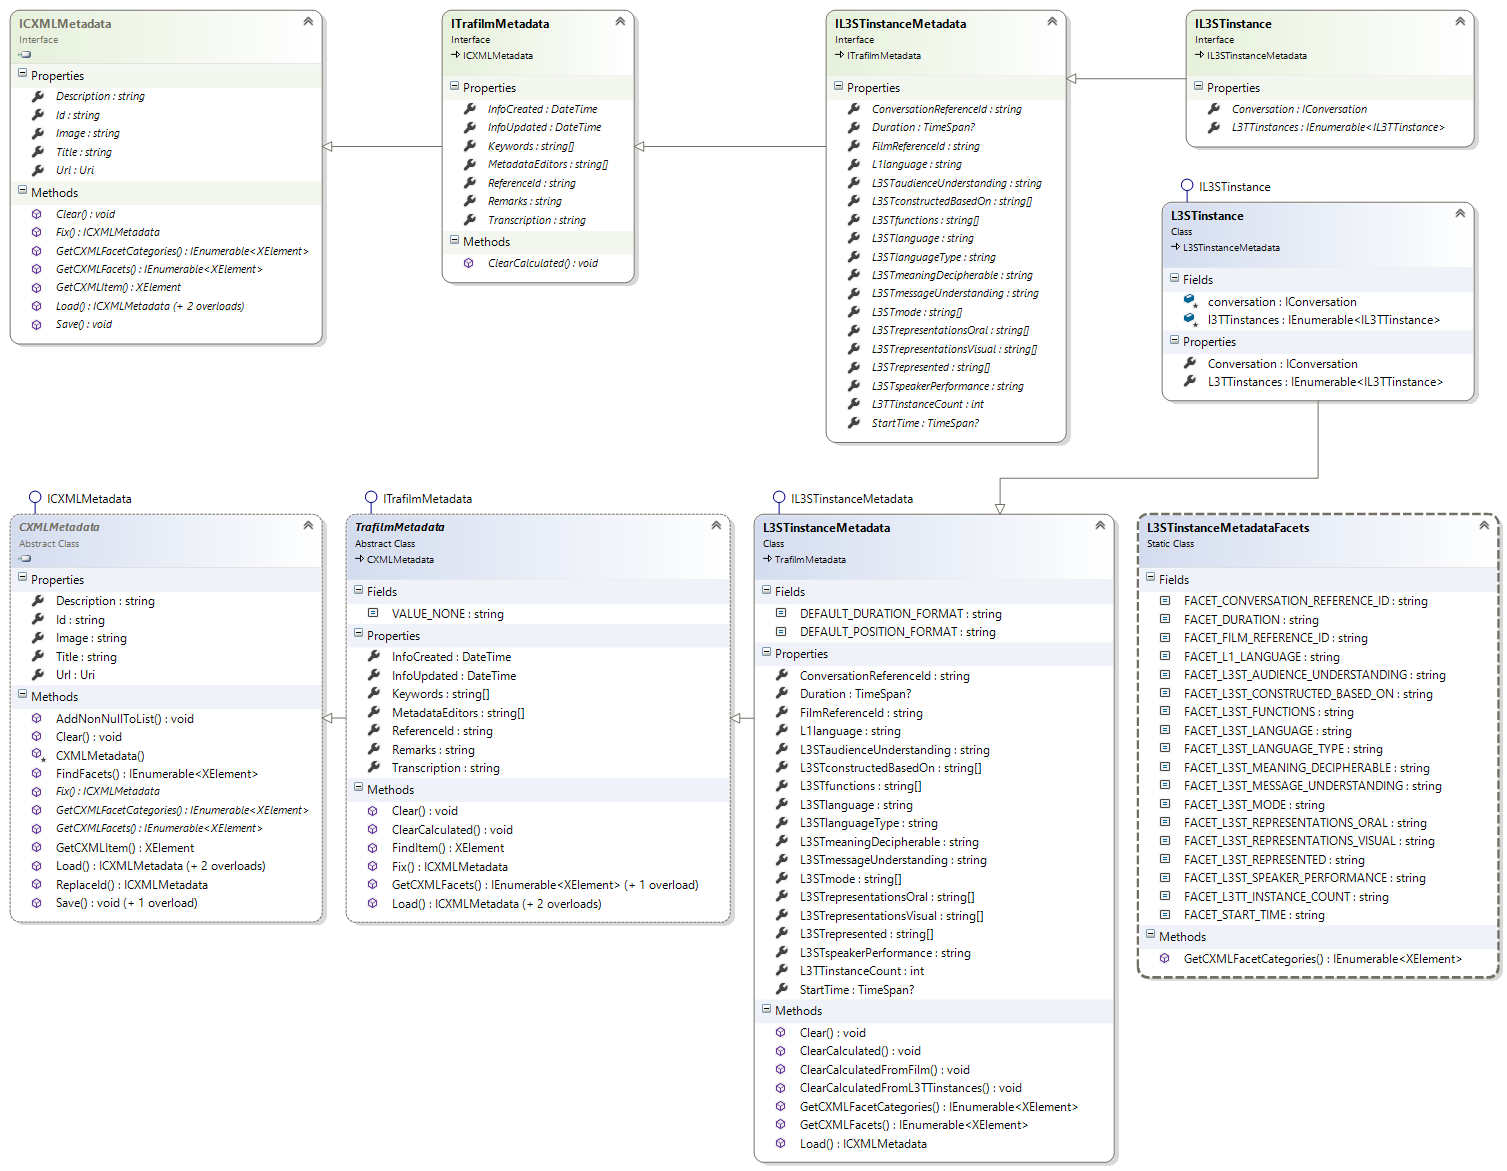
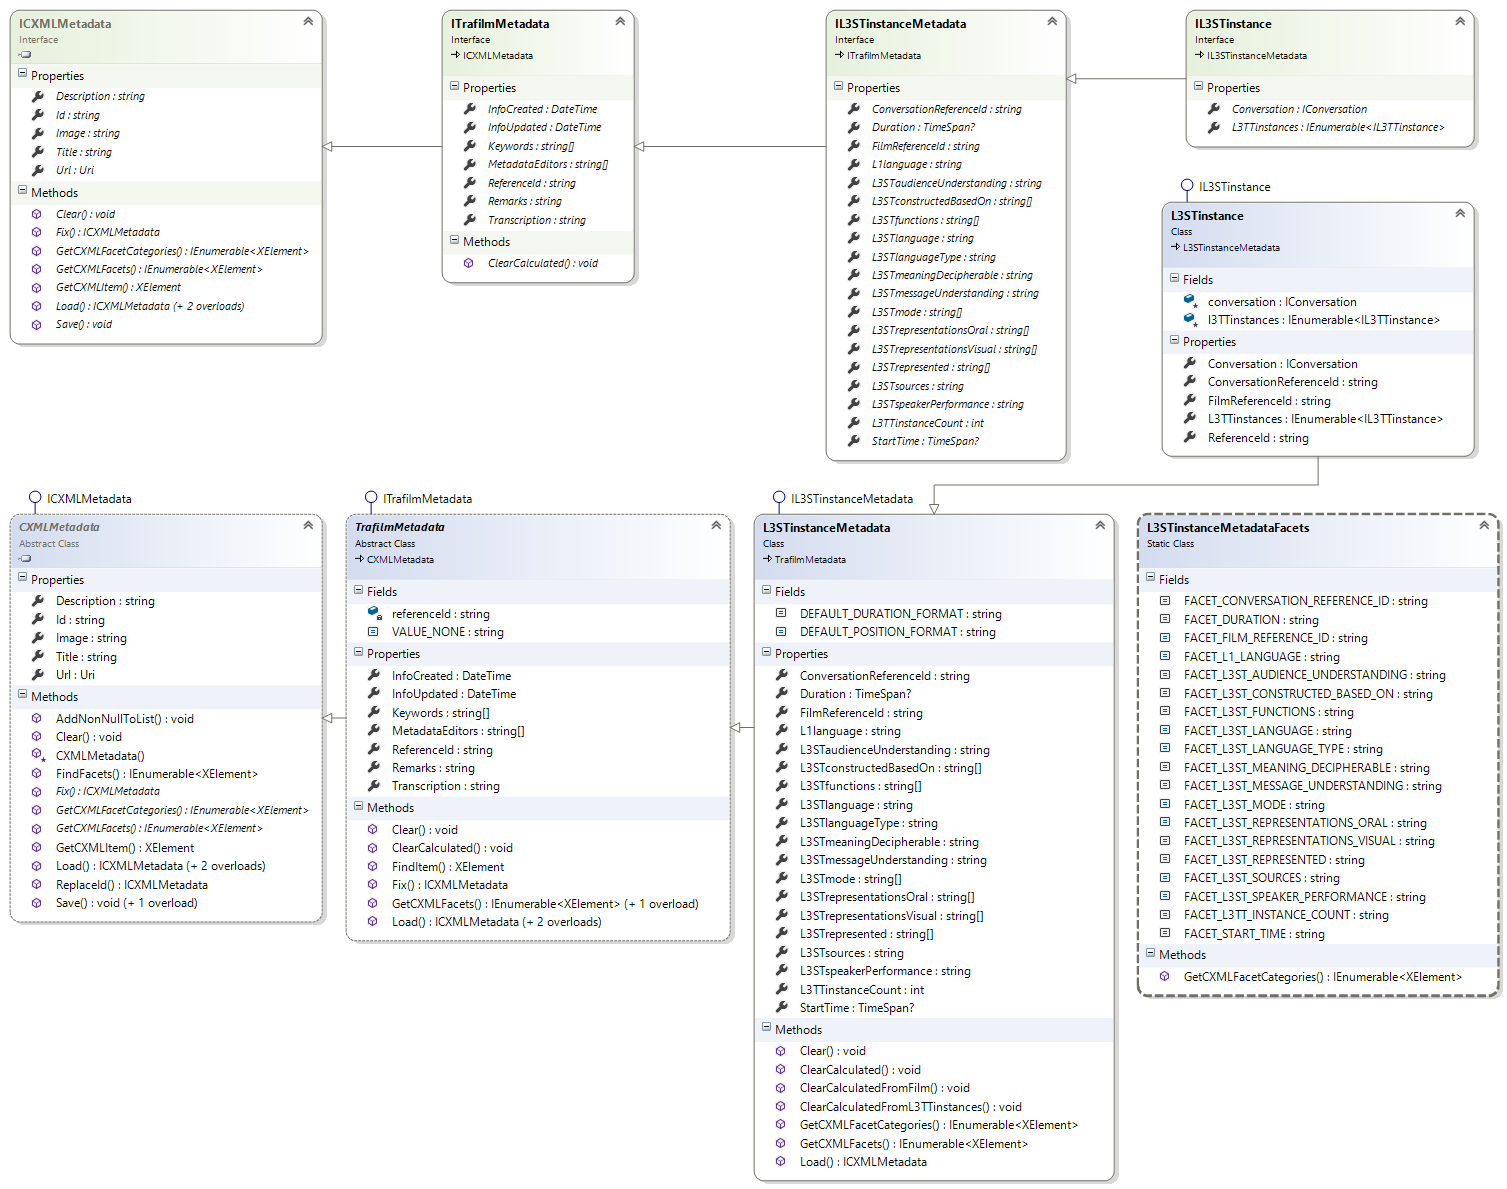
- Removed L1languagePresent, L2languagePresent, SpeakingCharactersCount, L3STspeakingCharactersCount from ConversationMetadata and introduced LanguageSources (single value) instead - Added L3STsources (single value) to L3STinstanceMetadata - Added L3TTsources (single value) and L3STsourcesChange (ca

diff --git a/Metadata/Conversation/ConversationMetadata.cs b/Metadata/Conversation/ConversationMetadata.cs
@@ -1,6 +1,6 @@
 //Project: Trafilm.Metadata (https://github.com/Zoomicon/Trafilm.Metadata)
 //Filename: ConversationMetadata.cs
-//Version: 20160609
+//Version: 20160614
 
 using Metadata.CXML;
 using Trafilm.Metadata.Models;
@@ -30,11 +30,7 @@ namespace Trafilm.Metadata
     public TimeSpan? StartTime { get; set; }
     public TimeSpan? Duration { get; set; }
 
-    public string L1languagePresent { get; set; }
-    public string L2languagePresent { get; set; }
-
-    public string SpeakingCharactersCount { get; set; } //e.g. 1, 2, 3, more than 3
-    public string L3STspeakingCharactersCount { get; set; } //e.g. 1, 2, 3, more than 3
+    public string LanguageSources { get; set; }
 
     //Calculatable from L3STinstances//
 
@@ -59,11 +55,7 @@ namespace Trafilm.Metadata
       StartTime = null;
       Duration = null;
 
-      L1languagePresent = "";
-      L2languagePresent = "";
-
-      SpeakingCharactersCount = ""; //can take values like 1, 2, 3, more than 3
-      L3STspeakingCharactersCount = ""; //can take values like 1, 2, 3, more than 3
+      LanguageSources = "";
 
       //note: don't call ClearCalculated here, has been called by base.Clear() already
     }
@@ -92,19 +84,15 @@ namespace Trafilm.Metadata
       StartTime = facets.CXMLFacetStringValue(ConversationMetadataFacets.FACET_START_TIME).ToNullableTimeSpan(DEFAULT_POSITION_FORMAT);
       Duration = facets.CXMLFacetStringValue(ConversationMetadataFacets.FACET_DURATION).ToNullableTimeSpan(DEFAULT_DURATION_FORMAT);
 
-      L1languagePresent = facets.CXMLFacetStringValue(ConversationMetadataFacets.FACET_L1_LANGUAGE_PRESENT);
-      L2languagePresent = facets.CXMLFacetStringValue(ConversationMetadataFacets.FACET_L2_LANGUAGE_PRESENT);
+      LanguageSources = facets.CXMLFacetStringValue(ConversationMetadataFacets.FACET_LANGUAGE_SOURCES);
 
-      SpeakingCharactersCount = facets.CXMLFacetStringValue(ConversationMetadataFacets.FACET_SPEAKING_CHARACTERS_COUNT); //e.g. 1, 2, 3, more than 3
-      L3STspeakingCharactersCount = facets.CXMLFacetStringValue(ConversationMetadataFacets.FACET_L3ST_SPEAKING_CHARACTERS_COUNT); //e.g. 1, 2, 3, more than 3
+      //Calculatable from L3STinstances//
 
       L3STlanguagesCount = int.Parse(facets.CXMLFacetStringValue(ConversationMetadataFacets.FACET_L3ST_LANGUAGES_COUNT));
       L3STlanguages = facets.CXMLFacetStringValues(ConversationMetadataFacets.FACET_L3ST_LANGUAGES);
 
       L3STlanguageTypesCount = int.Parse(facets.CXMLFacetStringValue(ConversationMetadataFacets.FACET_L3ST_LANGUAGE_TYPES_COUNT));
       L3STlanguageTypes = facets.CXMLFacetStringValues(ConversationMetadataFacets.FACET_L3ST_LANGUAGE_TYPES);
-
-      //Calculatable from L3STinstances//
 
       L3STinstanceCount = int.Parse(facets.CXMLFacetStringValue(ConversationMetadataFacets.FACET_L3ST_INSTANCE_COUNT));
 
@@ -128,19 +116,15 @@ namespace Trafilm.Metadata
       AddNonNullToList(facets, CXML.MakeStringFacet(ConversationMetadataFacets.FACET_START_TIME, StartTime.ToString(DEFAULT_POSITION_FORMAT)));
       AddNonNullToList(facets, CXML.MakeStringFacet(ConversationMetadataFacets.FACET_DURATION, Duration.ToString(DEFAULT_DURATION_FORMAT)));
 
-      AddNonNullToList(facets, CXML.MakeStringFacet(ConversationMetadataFacets.FACET_L1_LANGUAGE_PRESENT, L1languagePresent));
-      AddNonNullToList(facets, CXML.MakeStringFacet(ConversationMetadataFacets.FACET_L2_LANGUAGE_PRESENT, L2languagePresent));
+      AddNonNullToList(facets, CXML.MakeStringFacet(ConversationMetadataFacets.FACET_LANGUAGE_SOURCES, LanguageSources));
 
-      AddNonNullToList(facets, CXML.MakeStringFacet(ConversationMetadataFacets.FACET_SPEAKING_CHARACTERS_COUNT, SpeakingCharactersCount));
-      AddNonNullToList(facets, CXML.MakeStringFacet(ConversationMetadataFacets.FACET_L3ST_SPEAKING_CHARACTERS_COUNT, L3STspeakingCharactersCount));
+      //Calculatable from L3STinstances//
 
       AddNonNullToList(facets, CXML.MakeStringFacet(ConversationMetadataFacets.FACET_L3ST_LANGUAGES_COUNT, L3STlanguagesCount.ToString()));
       AddNonNullToList(facets, CXML.MakeStringFacet(ConversationMetadataFacets.FACET_L3ST_LANGUAGES, L3STlanguages));
 
       AddNonNullToList(facets, CXML.MakeStringFacet(ConversationMetadataFacets.FACET_L3ST_LANGUAGE_TYPES_COUNT, L3STlanguageTypesCount.ToString()));
       AddNonNullToList(facets, CXML.MakeStringFacet(ConversationMetadataFacets.FACET_L3ST_LANGUAGE_TYPES, L3STlanguageTypes));
-
-      //Calculatable from L3STinstances//
 
       AddNonNullToList(facets, CXML.MakeStringFacet(ConversationMetadataFacets.FACET_L3ST_INSTANCE_COUNT, L3STinstanceCount.ToString()));
 

diff --git a/Metadata/L3TTinstance/L3TTinstanceMetadata.cs b/Metadata/L3TTinstance/L3TTinstanceMetadata.cs
@@ -1,6 +1,6 @@
 //Project: Trafilm.Metadata (https://github.com/Zoomicon/Trafilm.Metadata)
 //Filename: L3TTinstanceMetadata.cs
-//Version: 20160609
+//Version: 20160614
 
 using Metadata.CXML;
 using Trafilm.Metadata.Models;
@@ -46,11 +46,14 @@ namespace Trafilm.Metadata
 
     public string[] L3TTfunctions { get; set; }
 
+    public string L3TTsources { get; set; }
+
     //Calculatable from L3STinstance//
 
     public string[] L3STlanguageTypeChange { get; set; }
     public string[] L3STmodeChange { get; set; }
     public string[] L3STfunctionsChange { get; set; }
+    public string[] L3STsourcesChange { get; set; }
 
     #endregion
 
@@ -90,6 +93,8 @@ namespace Trafilm.Metadata
 
       L3TTfunctions = new string[] { };
 
+      L3TTsources = "";
+
       //note: don't call ClearCalculated here, has been called by base.Clear() already
     }
 
@@ -100,6 +105,7 @@ namespace Trafilm.Metadata
       L3STlanguageTypeChange = new string[] { };
       L3STmodeChange = new string[] { };
       L3STfunctionsChange = new string[] { };
+      L3STsourcesChange = new string[] { };
     }
 
     public override ICXMLMetadata Load(XElement item)
@@ -138,11 +144,14 @@ namespace Trafilm.Metadata
 
       L3TTfunctions = facets.CXMLFacetStringValues(L3TTinstanceMetadataFacets.FACET_L3TT_FUNCTIONS);
 
+      L3TTsources = facets.CXMLFacetStringValue(L3TTinstanceMetadataFacets.FACET_L3TT_SOURCES);
+
       //Calculatable from L3STinstance//
 
       L3STlanguageTypeChange = facets.CXMLFacetStringValues(L3TTinstanceMetadataFacets.FACET_L3ST_LANGUAGE_TYPE_CHANGE);
       L3STmodeChange = facets.CXMLFacetStringValues(L3TTinstanceMetadataFacets.FACET_L3ST_MODE_CHANGE); 
       L3STfunctionsChange = facets.CXMLFacetStringValues(L3TTinstanceMetadataFacets.FACET_L3ST_FUNCTIONS_CHANGE);
+      L3STsourcesChange = facets.CXMLFacetStringValues(L3TTinstanceMetadataFacets.FACET_L3ST_SOURCES_CHANGE);
 
       return this;
     }
@@ -189,11 +198,14 @@ namespace Trafilm.Metadata
 
       AddNonNullToList(facets, CXML.MakeStringFacet(L3TTinstanceMetadataFacets.FACET_L3TT_FUNCTIONS, L3TTfunctions));
 
+      AddNonNullToList(facets, CXML.MakeStringFacet(L3TTinstanceMetadataFacets.FACET_L3TT_SOURCES, L3TTsources));
+
       //Calculatable from L3STinstance//
 
       AddNonNullToList(facets, CXML.MakeStringFacet(L3TTinstanceMetadataFacets.FACET_L3ST_LANGUAGE_TYPE_CHANGE, L3STlanguageTypeChange));
       AddNonNullToList(facets, CXML.MakeStringFacet(L3TTinstanceMetadataFacets.FACET_L3ST_MODE_CHANGE, L3STmodeChange));
       AddNonNullToList(facets, CXML.MakeStringFacet(L3TTinstanceMetadataFacets.FACET_L3ST_FUNCTIONS_CHANGE, L3STfunctionsChange));
+      AddNonNullToList(facets, CXML.MakeStringFacet(L3TTinstanceMetadataFacets.FACET_L3ST_SOURCES_CHANGE, L3STsourcesChange));
 
       return facets;
     }

diff --git a/Metadata/Conversation/ConversationMetadataFacets.cs b/Metadata/Conversation/ConversationMetadataFacets.cs
@@ -1,6 +1,6 @@
 //Project: Trafilm.Metadata (https://github.com/Zoomicon/Trafilm.Metadata)
 //Filename: ConversationMetadataFacets.cs
-//Version: 20160606
+//Version: 20160614
 
 using Metadata.CXML;
 using System.Collections.Generic;
@@ -19,11 +19,7 @@ namespace Trafilm.Metadata
     public const string FACET_START_TIME = "Start time (h:m:s)";
     public const string FACET_DURATION = "Duration (h:m:s)";
 
-    public const string FACET_L1_LANGUAGE_PRESENT = "L1 language present";
-    public const string FACET_L2_LANGUAGE_PRESENT = "L2 language present";
-
-    public const string FACET_SPEAKING_CHARACTERS_COUNT = "Speaking characters: count";
-    public const string FACET_L3ST_SPEAKING_CHARACTERS_COUNT = "L3ST-speaking characters: count";
+    public const string FACET_LANGUAGE_SOURCES = "Language sources";
 
     //Calculatable from L3STinstances//
 
@@ -53,11 +49,7 @@ namespace Trafilm.Metadata
       result.Add(CXML.MakeFacetCategory(ConversationMetadataFacets.FACET_START_TIME, CXML.VALUE_STRING, null, isFilterVisible: true, isMetadataVisible: true, isWordWheelVisible: false));
       result.Add(CXML.MakeFacetCategory(ConversationMetadataFacets.FACET_DURATION, CXML.VALUE_STRING, null, isFilterVisible: true, isMetadataVisible: true, isWordWheelVisible: false));
 
-      result.Add(CXML.MakeFacetCategory(ConversationMetadataFacets.FACET_L1_LANGUAGE_PRESENT, CXML.VALUE_STRING, null, isFilterVisible: true, isMetadataVisible: true, isWordWheelVisible: true));
-      result.Add(CXML.MakeFacetCategory(ConversationMetadataFacets.FACET_L2_LANGUAGE_PRESENT, CXML.VALUE_STRING, null, isFilterVisible: true, isMetadataVisible: true, isWordWheelVisible: true));
-
-      result.Add(CXML.MakeFacetCategory(ConversationMetadataFacets.FACET_SPEAKING_CHARACTERS_COUNT, CXML.VALUE_STRING, null, isFilterVisible: true, isMetadataVisible: true, isWordWheelVisible: true));
-      result.Add(CXML.MakeFacetCategory(ConversationMetadataFacets.FACET_L3ST_SPEAKING_CHARACTERS_COUNT, CXML.VALUE_STRING, null, isFilterVisible: true, isMetadataVisible: true, isWordWheelVisible: true));
+      result.Add(CXML.MakeFacetCategory(ConversationMetadataFacets.FACET_LANGUAGE_SOURCES, CXML.VALUE_STRING, null, isFilterVisible: true, isMetadataVisible: true, isWordWheelVisible: true));
 
       //Calculatable from L3STinstances//
 

diff --git a/Metadata/L3TTinstance/L3TTinstanceMetadataFacets.cs b/Metadata/L3TTinstance/L3TTinstanceMetadataFacets.cs
@@ -1,6 +1,6 @@
 //Project: Trafilm.Metadata (https://github.com/Zoomicon/Trafilm.Metadata)
 //Filename: L3TTinstanceMetadataFacets.cs
-//Version: 20160606
+//Version: 20160614
 
 using Metadata.CXML;
 using System.Collections.Generic;
@@ -44,11 +44,14 @@ namespace Trafilm.Metadata
 
     public const string FACET_L3TT_FUNCTIONS = "L3TT functions";
 
+    public const string FACET_L3TT_SOURCES = "L3TT sources";
+
     //Calculatable from L3STinstance//
 
     public const string FACET_L3ST_LANGUAGE_TYPE_CHANGE = "L3ST language type change";
     public const string FACET_L3ST_MODE_CHANGE = "L3ST mode change";
     public const string FACET_L3ST_FUNCTIONS_CHANGE = "L3ST functions change";
+    public const string FACET_L3ST_SOURCES_CHANGE = "L3ST sources change";
 
     #endregion
 
@@ -93,11 +96,14 @@ namespace Trafilm.Metadata
 
       result.Add(CXML.MakeFacetCategory(L3TTinstanceMetadataFacets.FACET_L3TT_FUNCTIONS, CXML.VALUE_STRING, null, isFilterVisible: true, isMetadataVisible: true, isWordWheelVisible: true));
 
+      result.Add(CXML.MakeFacetCategory(L3TTinstanceMetadataFacets.FACET_L3TT_SOURCES, CXML.VALUE_STRING, null, isFilterVisible: true, isMetadataVisible: true, isWordWheelVisible: true));
+
       //Calculatable from L3STinstance//
 
       result.Add(CXML.MakeFacetCategory(L3TTinstanceMetadataFacets.FACET_L3ST_LANGUAGE_TYPE_CHANGE, CXML.VALUE_STRING, null, isFilterVisible: true, isMetadataVisible: true, isWordWheelVisible: true));
       result.Add(CXML.MakeFacetCategory(L3TTinstanceMetadataFacets.FACET_L3ST_MODE_CHANGE, CXML.VALUE_STRING, null, isFilterVisible: true, isMetadataVisible: true, isWordWheelVisible: true));
       result.Add(CXML.MakeFacetCategory(L3TTinstanceMetadataFacets.FACET_L3ST_FUNCTIONS_CHANGE, CXML.VALUE_STRING, null, isFilterVisible: true, isMetadataVisible: true, isWordWheelVisible: true));
+      result.Add(CXML.MakeFacetCategory(L3TTinstanceMetadataFacets.FACET_L3ST_SOURCES_CHANGE, CXML.VALUE_STRING, null, isFilterVisible: true, isMetadataVisible: true, isWordWheelVisible: true));
 
       //
 

diff --git a/Metadata/L3STinstance/L3STinstanceMetadata.cs b/Metadata/L3STinstance/L3STinstanceMetadata.cs
@@ -1,6 +1,6 @@
 //Project: Trafilm.Metadata (https://github.com/Zoomicon/Trafilm.Metadata)
 //Filename: L3STinstanceMetadata.cs
-//Version: 20160609
+//Version: 20160614
 
 using Metadata.CXML;
 using Trafilm.Metadata.Models;
@@ -52,6 +52,8 @@ namespace Trafilm.Metadata
 
     public string[] L3STfunctions { get; set; }
 
+    public string L3STsources { get; set; }
+
     //Calculatable from L3TTinstances//
 
     public int L3TTinstanceCount { get; set; }
@@ -88,6 +90,8 @@ namespace Trafilm.Metadata
       L3STrepresentationsVisual = new string[] { };
 
       L3STfunctions = new string[] { };
+
+      L3STsources = "";
 
       //note: don't call ClearCalculated here, has been called by base.Clear() already
     }
@@ -143,6 +147,8 @@ namespace Trafilm.Metadata
 
       L3STfunctions = facets.CXMLFacetStringValues(L3STinstanceMetadataFacets.FACET_L3ST_FUNCTIONS);
 
+      L3STsources = facets.CXMLFacetStringValue(L3STinstanceMetadataFacets.FACET_L3ST_SOURCES);
+
       //Calculatable from L3STinstances//
 
       L3TTinstanceCount = int.Parse(facets.CXMLFacetStringValue(L3STinstanceMetadataFacets.FACET_L3TT_INSTANCE_COUNT));
@@ -188,6 +194,8 @@ namespace Trafilm.Metadata
       AddNonNullToList(facets, CXML.MakeStringFacet(L3STinstanceMetadataFacets.FACET_L3ST_REPRESENTATIONS_VISUAL, L3STrepresentationsVisual));
 
       AddNonNullToList(facets, CXML.MakeStringFacet(L3STinstanceMetadataFacets.FACET_L3ST_FUNCTIONS, L3STfunctions));
+
+      AddNonNullToList(facets, CXML.MakeStringFacet(L3STinstanceMetadataFacets.FACET_L3ST_SOURCES, L3STsources));
 
       //Calculatable from L3TTinstances//
 

diff --git a/Metadata/L3STinstance/L3STinstanceMetadataFacets.cs b/Metadata/L3STinstance/L3STinstanceMetadataFacets.cs
@@ -1,6 +1,6 @@
 //Project: Trafilm.Metadata (https://github.com/Zoomicon/Trafilm.Metadata)
 //Filename: L3STinstanceMetadataFacets.cs
-//Version: 20160606
+//Version: 20160614
 
 using Metadata.CXML;
 using System.Collections.Generic;
@@ -40,6 +40,8 @@ namespace Trafilm.Metadata
     public const string FACET_L3ST_REPRESENTATIONS_VISUAL = "L3ST represented: visual";
 
     public const string FACET_L3ST_FUNCTIONS = "L3ST functions";
+
+    public const string FACET_L3ST_SOURCES = "L3ST sources";
 
     //Calculatable from L3TTinstances//
 
@@ -84,6 +86,8 @@ namespace Trafilm.Metadata
       result.Add(CXML.MakeFacetCategory(L3STinstanceMetadataFacets.FACET_L3ST_REPRESENTATIONS_VISUAL, CXML.VALUE_STRING, null, isFilterVisible: true, isMetadataVisible: true, isWordWheelVisible: true));
 
       result.Add(CXML.MakeFacetCategory(L3STinstanceMetadataFacets.FACET_L3ST_FUNCTIONS, CXML.VALUE_STRING, null, isFilterVisible: true, isMetadataVisible: true, isWordWheelVisible: true));
+
+      result.Add(CXML.MakeFacetCategory(L3STinstanceMetadataFacets.FACET_L3ST_SOURCES, CXML.VALUE_STRING, null, isFilterVisible: true, isMetadataVisible: true, isWordWheelVisible: true));
 
       //Calculatable from L3TTinstances//
 

diff --git a/Metadata/Conversation/IConversationMetadata.cs b/Metadata/Conversation/IConversationMetadata.cs
@@ -1,6 +1,6 @@
 //Project: Trafilm.Metadata (https://github.com/Zoomicon/Trafilm.Metadata)
 //Filename: IConversationMetadata.cs
-//Version: 20160530
+//Version: 20160614
 
 using System;
 
@@ -16,12 +16,8 @@ namespace Trafilm.Metadata.Models
 
     TimeSpan? StartTime { get; set; }
     TimeSpan? Duration { get; set; }
-    
-    string L1languagePresent { get; set; }
-    string L2languagePresent { get; set; }
 
-    string SpeakingCharactersCount { get; set; } //e.g. 1, 2, 3, more than 3
-    string L3STspeakingCharactersCount { get; set; } //e.g. 1, 2, 3, more than 3
+    string LanguageSources { get; set; }
 
     //Calculatable from L3STinstances//
 

diff --git a/LinkedData/L3TTinstance/L3TTinstance.cs b/LinkedData/L3TTinstance/L3TTinstance.cs
@@ -1,6 +1,6 @@
 //Project: Trafilm.Metadata (https://github.com/Zoomicon/Trafilm.Metadata)
 //Filename: L3TTinstance.cs
-//Version: 20160609
+//Version: 20160614
 
 using Trafilm.Metadata.Models;
 using Trafilm.Metadata.Utils;
@@ -55,6 +55,7 @@ namespace Trafilm.Metadata
           L3STlanguageTypeChange = Diff.GetDifferences(value.L3STlanguageType, L3TTlanguageType);
           L3STmodeChange = Diff.GetDifferences(value.L3STmode, L3TTmode);
           L3STfunctionsChange = Diff.GetDifferences(value.L3STfunctions, L3TTfunctions);
+          L3STsourcesChange = Diff.GetDifferences(value.L3STsources, L3TTsources);
           //...
         }
         else

diff --git a/Metadata/L3TTinstance/IL3TTinstanceMetadata.cs b/Metadata/L3TTinstance/IL3TTinstanceMetadata.cs
@@ -1,6 +1,6 @@
 //Project: Trafilm.Metadata (https://github.com/Zoomicon/Trafilm.Metadata)
 //Filename: IL3TTinstanceMetadata.cs
-//Version: 20160530
+//Version: 20160614
 
 namespace Trafilm.Metadata.Models
 {
@@ -40,11 +40,14 @@ namespace Trafilm.Metadata.Models
 
     string[] L3TTfunctions { get; set; }
 
+    string L3TTsources { get; set; }
+
     //Calculatable from L3STinstance//
 
     string[] L3STlanguageTypeChange { get; set; }
     string[] L3STmodeChange { get; set;  }
     string[] L3STfunctionsChange { get; set; }
+    string[] L3STsourcesChange { get; set; }
 
     #endregion
 

diff --git a/Metadata/L3STinstance/IL3STinstanceMetadata.cs b/Metadata/L3STinstance/IL3STinstanceMetadata.cs
@@ -1,6 +1,6 @@
 //Project: Trafilm.Metadata (https://github.com/Zoomicon/Trafilm.Metadata)
 //Filename: IL3STinstanceMetadata.cs
-//Version: 20160530
+//Version: 20160614
 
 using System;
 
@@ -38,6 +38,8 @@ namespace Trafilm.Metadata.Models
     string[] L3STrepresentationsVisual { get; set; }
 
     string[] L3STfunctions { get; set; }
+
+    string L3STsources { get; set; }
 
     //Calculatable from L3TTinstances//
 
